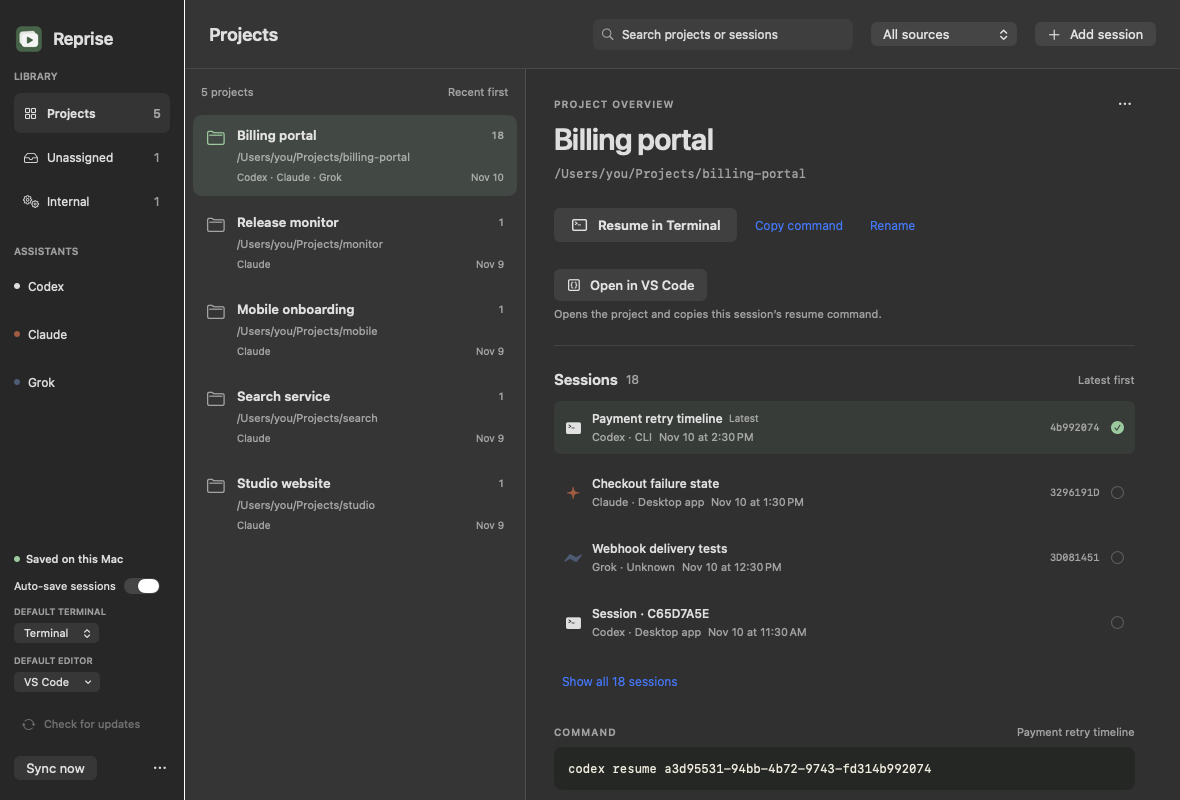
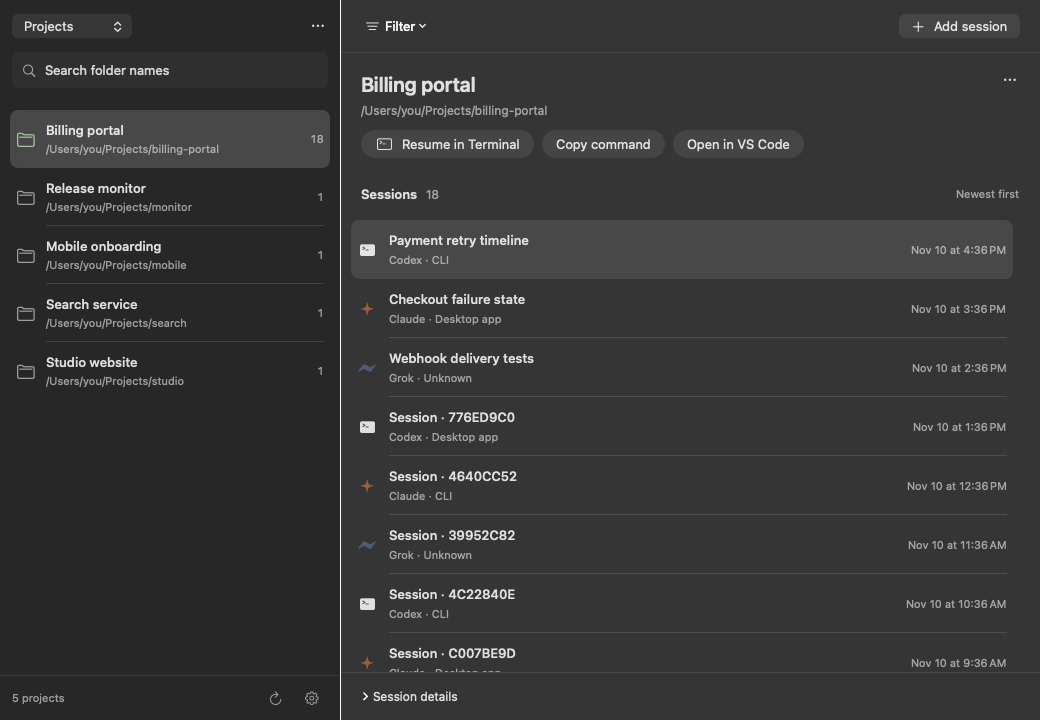
Refresh download previews and document the simpler native workflows

diff --git a/docs/index.html b/docs/index.html
@@ -28,7 +28,7 @@
       content="https://en-code23.github.io/reprise/assets/library-light.png"
     />
     <link rel="icon" href="assets/reprise-icon.png?v=1.5.1" />
-    <link rel="stylesheet" href="styles.css?v=1.7.0" />
+    <link rel="stylesheet" href="styles.css?v=1.8.0" />
   </head>
   <body>
     <header class="navigation wrap">
@@ -58,7 +58,7 @@
         <h1>Every project.<br /><span>One place to resume.</span></h1>
         <p class="intro">
           Codex in one terminal. Claude in another. Reprise keeps their sessions
-          together by project, ready for your next good idea.
+          together by project, ready to continue where you left off.
         </p>
         <div class="hero-actions">
           <a
@@ -108,10 +108,10 @@
           </div>
           <img
             id="app-preview"
-            src="assets/library-light.png?v=1.7.0"
+            src="assets/library-light.png?v=1.8.0"
             alt="Reprise project library: five project folders, with 18 Billing portal sessions grouped into one row and a Resume in Terminal action."
-            width="1180"
-            height="800"
+            width="1040"
+            height="720"
             fetchpriority="high"
           />
         </div>
@@ -136,8 +136,8 @@
           <h2>You see projects,<br />not repeated names.</h2>
           <p>
             One directory gets one place in your library, even across
-            assistants. Give each conversation a name, then find it in the project's
-            history or search. Previous sessions stay available, newest first.
+            assistants. Search by folder name, then choose a named conversation
+            from the project's history. Session history stays together, newest first.
           </p>
         </article>
         <article>
@@ -180,9 +180,9 @@
             <summary>Can I name individual sessions?</summary>
             <p>
               Yes. Reprise imports recorded Codex, Claude, and Grok titles when available.
-              On Mac, select a session and click Rename; on Windows, choose Rename / edit.
+              On Mac, right-click a session and choose Rename; on Windows, choose … → Rename / edit session.
               You can also enter a name while adding a screenshot or command. Names are
-              searchable and stay saved when sessions sync. Clear your custom name to use
+              shown in project history and stay saved when sessions sync. Clear your custom name to use
               the imported title again. Naming a session in Reprise leaves its project
               and resume command intact.
             </p>
@@ -190,13 +190,14 @@
           <details>
             <summary>Can I separate desktop app and CLI sessions?</summary>
             <p>
-              Yes. Session history labels the recorded source, and the All
-              sources menu filters Desktop app, CLI, IDE extension, SDK /
-              automation, Multiple clients, or Unknown. Codex and Claude local
-              coding sessions are detected from their metadata. Missing or
-              ambiguous records stay Unknown; you can correct them in Session
-              details. Regular cloud-only Claude chats are not imported. Resume
-              still uses your chosen terminal.
+              Yes. Open Filter to choose an assistant and source, such as Desktop app
+              or CLI. Main sessions hides SDK/automation by default. Choose All sources
+              or SDK / automation to include it. Confirmed subagents stay hidden.
+            </p>
+            <p>
+              Source labels come from local Codex and Claude metadata. Missing or
+              ambiguous records stay Unknown; you can correct them in Session details.
+              Regular cloud-only Claude chats are not imported. Resume uses your chosen terminal.
             </p>
           </details>
           <details>
@@ -208,6 +209,16 @@
               metadata format does not reliably identify the app or CLI source,
               so the source stays Unknown unless you set it manually. Cloud
               chats and other Grok client formats are not imported.
+            </p>
+          </details>
+          <details>
+            <summary>Where are my older sessions?</summary>
+            <p>
+              Reprise reads archived Codex transcripts and the local Codex history index,
+              along with older Claude metadata. If a Codex transcript is missing from this
+              computer, its saved reference shows History not local and Resume is disabled.
+              Open that conversation in Codex if available, then sync Reprise. Reprise
+              cannot recreate a missing conversation file.
             </p>
           </details>
           <details>
@@ -224,7 +235,8 @@
               Assign a project directory when saving a capture. Older captures
               without a directory live under Unassigned until you choose their
               folder. The filename doesn’t become a project in your main
-              library.
+              library. If local discovery identifies the session's project, it fills
+              the missing folder while preserving your saved name and notes.
             </p>
           </details>
           <details>
@@ -233,7 +245,7 @@
               macOS 14 or a Windows x64 PC, the relevant CLI installed and signed in, and a
               project folder that still exists. On first use, macOS may ask to
               let Reprise control your selected terminal. Choose your default in
-              the library sidebar; Ghostty on Mac requires version 1.3 or newer.
+              Settings; Ghostty on Mac requires version 1.3 or newer.
               Windows supports Windows Terminal, PowerShell, and Command Prompt.
             </p>
           </details>
@@ -248,7 +260,7 @@
           <details>
             <summary>Can I open a session in VS Code or another editor?</summary>
             <p>
-              Yes. Choose Default editor in the sidebar, then click Open in VS Code
+              Yes. Choose Default editor in Settings, then click Open in VS Code
               (or your selected editor). Reprise opens the project folder and copies
               that session’s resume command. Paste it into the editor’s terminal to
               continue. Choose another editor selects an app on Mac or an editor’s .exe on Windows.
@@ -257,7 +269,7 @@
           <details>
             <summary>Can Reprise update itself?</summary>
             <p>
-              From v1.5.0, Check for updates in the library sidebar or menubar options
+              From v1.5.0, Check for updates in Settings or the menubar options
               downloads, verifies, installs, and relaunches updates inside the app.
               Older Mac versions need v1.5.0 or newer installed once from the DMG.
               Windows installer builds update through Velopack; portable copies can be replaced manually.
@@ -301,6 +313,6 @@
         >MIT License</a
       >
     </footer>
-    <script src="app.js?v=1.7.0"></script>
+    <script src="app.js?v=1.8.0"></script>
   </body>
 </html>

diff --git a/docs/app.js b/docs/app.js
@@ -37,11 +37,11 @@ let previewPlatform = systemPlatform;
 let previewDark = false;
 function renderPreview() {
   const windows = previewPlatform === "windows";
-  const path = (windows ? "assets/windows-library.png" : previewDark ? "assets/library-dark.png" : "assets/library-light.png") + "?v=1.7.0";
+  const path = (windows ? "assets/windows-library.png" : previewDark ? "assets/library-dark.png" : "assets/library-light.png") + "?v=1.8.0";
   const preview = document.getElementById("app-preview");
   preview.src = path;
   preview.alt = windows ? "Native Reprise Windows project library with example sessions." : "Native Reprise Mac project library with example sessions.";
-  preview.style.aspectRatio = windows ? "1044 / 788" : "1180 / 800";
+  preview.style.aspectRatio = "auto";
   document.getElementById("full-preview").href = path;
   document.getElementById("preview-window-bar").hidden = windows;
   document.querySelector(".appearance").hidden = windows;

diff --git a/docs/styles.css b/docs/styles.css
@@ -235,7 +235,7 @@ h1 span {
   display: block;
   width: 100%;
   height: auto;
-  aspect-ratio: 1180/800;
+  aspect-ratio: auto;
   object-fit: contain;
   object-position: top;
   background: #282c27;

diff --git a/README.md b/README.md
@@ -27,24 +27,24 @@ Windows sessions and preferences live in `%LOCALAPPDATA%\RepriseLibrary`, outsid
 Build on Windows with .NET 10 and the Visual Studio C++ redistributable files available:
 
 ```powershell
-./scripts/build-windows.ps1 -Version 1.7.0
+./scripts/build-windows.ps1 -Version 1.8.0
 ```
 
 The script runs core checks, publishes a self-contained app, verifies its UI/OCR on Windows, and builds the installer and update packages with pinned Velopack tooling. `-TestInstaller` additionally installs and tests the package on a clean CI runner. Windows previews are saved under `build/windows/qa/`. Run the portable core checks on any .NET 10 host with `dotnet run --project windows/Reprise.Core.Tests -c Release`.
 
 ## Session names on Mac and Windows
 
-Select a project, then choose a session by name. On Mac, click **Rename** beside the selected session's name, or right-click its history row. On Windows, use **Rename / edit** or double-click the session row. A Session name field is also available when adding a screenshot or entering a command.
+Select a project, then choose a session by name. On Mac, use the selected session’s **… → Rename session** menu or right-click its history row. On Windows, use **… → Rename / edit session** or double-click the row. A Session name field is also available when adding a screenshot or entering a command.
 
-Saved names are imported from Codex's `session_index.jsonl`, Claude's `custom-title` rename records, and Grok's `generated_title` metadata. You can give any session your own name in Reprise. Your name survives sync and restart; clear the field to use the latest imported name again. Entries without a name show a short session-ID fallback. Names are searchable, and changing one leaves the project grouping and resume command intact. Reprise does not write names back to the original CLI files.
+Saved names are imported from Codex's `session_index.jsonl`, Claude's `custom-title` and `ai-title` records, and Grok's `generated_title` metadata. You can give any session your own name in Reprise. Your name survives sync and restart; clear the field to use the latest imported name again. Entries without a name show a short session-ID fallback. Names identify conversations in project history; the library search matches only the project's folder name. Renaming leaves project grouping and resume commands intact. Reprise does not write names back to the original CLI files.
 
-The Codex index read is limited to its most recent 8 MB. Claude name discovery additionally reads up to 64 KB from the end of a transcript, retaining only explicit rename records. Names outside these bounds may need to be entered manually. Names are normalized to one line and limited to 200 characters.
+The Codex index read is limited to its most recent 8 MB. Claude discovery additionally reads up to 256 KB from the end of a transcript, retaining only directory, source, session ID, and title metadata. This also recovers older files with large queued-input headers. Custom titles take precedence over generated titles. Names outside these bounds may need to be entered manually. Names are normalized to one line and limited to 200 characters.
 
 The remaining sections describe the Mac app unless stated otherwise.
 
 ## Resume your work
 
-The library opens when Reprise starts. Select a session to see the full command, folder, and notes. Choose **Default terminal** in the library sidebar or menubar menu: Apple Terminal, Ghostty, or iTerm2. The choice is saved and the Resume button shows the selected app. It opens a new window, changes to the project directory, and starts the appropriate CLI. Choose a new folder if the project has moved. The installed CLI must be available in your shell and signed in.
+The library opens when Reprise starts. Choose a folder on the left and a conversation on the right. Resume, copy, or open in your editor from the project header. Expand **Session details** for the command and notes. Choose **Default terminal** in **Reprise → Settings** (⌘,) or the menubar menu: Apple Terminal, Ghostty, or iTerm2. The choice is saved and the Resume button shows the selected app. It opens a new window, changes to the project directory, and starts the appropriate CLI. Choose a new folder if the project has moved. The installed CLI must be available in your shell and signed in.
 
 Reprise appears in both the Mac Dock and menu bar. Clicking its Dock icon opens the library, including when the window is closed or minimized. Closing the library keeps Reprise and automatic discovery running; use Reprise → Quit Reprise or the menu bar's Quit action to exit.
 
@@ -52,13 +52,19 @@ Reprise keeps one running instance per macOS user, including when you open a sec
 
 The library shows one row per project directory, with sessions from different assistants together. Selecting a project chooses its latest session; use its history to resume an earlier conversation. Project names alone are never used for grouping, so two folders with the same name stay separate.
 
+Search matches only the folder's final name, ignoring case and surrounding spaces. Commands, notes, session names, source labels, and parent paths do not affect the results. All sessions for a matching folder remain together.
+
+When local discovery finds a session previously saved from a screenshot without a folder, it fills the missing directory and moves the entry into its project. The same entry ID, session name, and notes are preserved. Placeholder screenshot labels are replaced with the folder name; explicitly chosen folders and project labels stay intact.
+
 ### Desktop app versus CLI
 
-Each session shows its recorded source: **Desktop app**, **CLI**, **IDE extension**, **SDK / automation**, **Multiple clients**, or **Unknown**. Combine an assistant filter with the **All sources** menu to show, for example, Codex desktop sessions or Claude CLI sessions without splitting the project library into duplicate rows.
+Each session shows its recorded source: **Desktop app**, **CLI**, **IDE extension**, **SDK / automation**, **Multiple clients**, or **Unknown**. The default **Main sessions** source filter hides SDK/automation entries. Choose **All sources** to include automation, or **SDK / automation** to view it separately. Open **Filter** to combine a source with an assistant to show Codex desktop sessions or Claude CLI sessions without splitting projects into duplicate rows.
 
-Codex detection uses specific `originator` markers, preferring them over the broad `source` value (Desktop can also report `vscode`). Claude detection uses top-level `entrypoint` metadata such as `cli`, `claude-desktop`, `sdk-cli`, and `sdk-py`. Multiple recognised entrypoints in the scanned portion are labelled Multiple clients. Source detection uses only the first 256 KB of a file; it cannot reliably identify every client used throughout the whole conversation.
+Confirmed subagents are excluded from the library and menu bar recents, including Codex subagent metadata, Claude sidechain conversations, legacy `agent-` files, and nested subagent folders. Previously imported records recognized as subagents remain stored with their notes and names; they are filtered out rather than deleted. A primary transcript takes precedence if the same session ID also appears in a child record.
 
-Records without enough evidence stay Unknown. Use **Session details → Session source** to correct a label or select Automatic to return to metadata detection. The same selector is available during screenshot/manual capture review. On the next sync, old records gain metadata labels without losing your edits or overrides.
+Codex detection uses specific `originator` markers, preferring them over the broad `source` value (Desktop can also report `vscode`). Claude detection uses top-level `entrypoint` metadata such as `cli`, `claude-desktop`, `sdk-cli`, and `sdk-py`. Multiple recognised entrypoints in the scanned portion are labelled Multiple clients. Source detection uses bounded header/tail metadata or the local Codex index; it cannot reliably identify every client used throughout the whole conversation.
+
+Records without enough evidence stay Unknown. Use **… → Edit details → Session source** to correct a label or select Automatic to return to metadata detection. The same selector is available during screenshot/manual capture review. On the next sync, old records gain metadata labels without losing your edits or overrides.
 
 These are recorded origins for **local coding sessions**, not a live connection indicator. Regular cloud-only Claude chats are not discovered. The source label does not change how Resume works: it still uses your chosen terminal and the saved resume command.
 
@@ -68,11 +74,11 @@ macOS may ask to allow Reprise to control your selected terminal on first use. P
 
 ## Open in your editor
 
-Choose **Default editor** in the library sidebar. Installed editors appear in the menu; use **Choose another editor…** to select any other editor application. The choice is saved. Click **Open in VS Code** (or your selected editor) to open the session's project folder and copy its resume command. Paste it into the editor's terminal to continue that conversation. Reprise opens the folder through macOS, so an editor command-line launcher is not required. It copies the command only after the project opens successfully; it does not run it or change editor configuration.
+Choose **Default editor** in **Settings**. Installed editors appear in the menu; use **Choose another editor…** to select any other editor application. The choice is saved. Click **Open in VS Code** (or your selected editor) to open the session's project folder and copy its resume command. Paste it into the editor's terminal to continue that conversation. Reprise opens the folder through macOS, so an editor command-line launcher is not required. It copies the command only after the project opens successfully; it does not run it or change editor configuration.
 
 ## In-app updates
 
-Use **Check for updates** at the bottom of the library or in the menubar options. Sparkle shows available updates and downloads, verifies, installs, and relaunches them inside Reprise. Checks are initiated by you. Both the feed and archives are signed with Ed25519; the public key is embedded in the app. Install v1.5.0 once using the DMG to gain this feature in older versions.
+Use **Settings → Check for updates** or the menubar options. Sparkle shows available updates and downloads, verifies, installs, and relaunches them inside Reprise. Checks are initiated by you. Both the feed and archives are signed with Ed25519; the public key is embedded in the app. Install v1.5.0 once using the DMG to gain this feature in older versions.
 
 Update checks contact GitHub. Saved sessions, commands, screenshots, and project notes are not sent with them.
 
@@ -80,9 +86,11 @@ The release workflow requires the repository secret `SPARKLE_PRIVATE_KEY`. Keep 
 
 ## Automatic local discovery
 
-While Reprise is running, it scans `~/.codex/sessions`, `~/.claude/projects`, and `~/.grok/sessions` at startup and every 30 seconds. `CODEX_HOME`, `CLAUDE_CONFIG_DIR`, and `GROK_HOME` are respected when present in the app's environment. Use **Sync now** for an immediate refresh, or turn off **Auto-save local sessions** at the bottom of the library.
+While Reprise is running, it scans `~/.codex/sessions`, `~/.codex/archived_sessions`, `~/.claude/projects`, and `~/.grok/sessions` at startup and every 30 seconds. `CODEX_HOME`, `CLAUDE_CONFIG_DIR`, and `GROK_HOME` are respected when present in the app's environment. Use **Sync now** for an immediate refresh, or turn off automatic discovery in **Settings**.
 
-Only session ID, name, assistant, project directory, activity time, and source metadata are retained. Conversation messages and tool output are not imported. Header reading is limited to the first 256 KB of Codex/Claude transcripts; the additional name metadata reads are bounded as described above. For Grok Build, only `summary.json` is read, with a 1 MB limit; its `info.id` and `info.cwd` fields are authoritative, and its saved activity timestamps take precedence over the file modification time. Grok's generated title is retained as the session name; transcripts, prompts, and conversation summaries are not imported. Unsupported or incomplete files are skipped and may be found on a later scan. Nested subagent folders and symbolic-link summaries are excluded.
+Older Codex conversations are also found in the newest local `state_N.sqlite` history index, opened read-only and limited to 5,000 metadata rows. Reprise checks whether each referenced transcript exists. Missing transcripts remain visible as **History not local** references with Resume disabled. Reprise cannot reconstruct missing conversation files; open the conversation in Codex if available, then sync again.
+
+Only session ID, name, assistant, project directory, activity time, source metadata, and local-history availability are retained. Conversation messages and tool output are not imported. Header reading is limited to the first 256 KB of Codex/Claude transcripts; the additional name metadata reads are bounded as described above. For Grok Build, only `summary.json` is read, with a 1 MB limit; its `info.id` and `info.cwd` fields are authoritative, and its saved activity timestamps take precedence over the file modification time. Grok's generated title is retained as the session name; transcripts, prompts, and conversation summaries are not imported. Unsupported or incomplete files are skipped and may be found on a later scan. Nested subagent folders and symbolic-link summaries are excluded.
 
 Grok Build's summary format is shared by TUI, headless, and ACP clients and does not reliably identify the originating client. Imported Grok sources therefore stay Unknown unless set manually. This integration supports the installed Grok Build format, not arbitrary third-party Grok clients or cloud chat histories. See [Grok Build's session format](https://github.com/xai-org/grok-build/blob/main/crates/codegen/xai-grok-pager/docs/user-guide/17-sessions.md).
 
